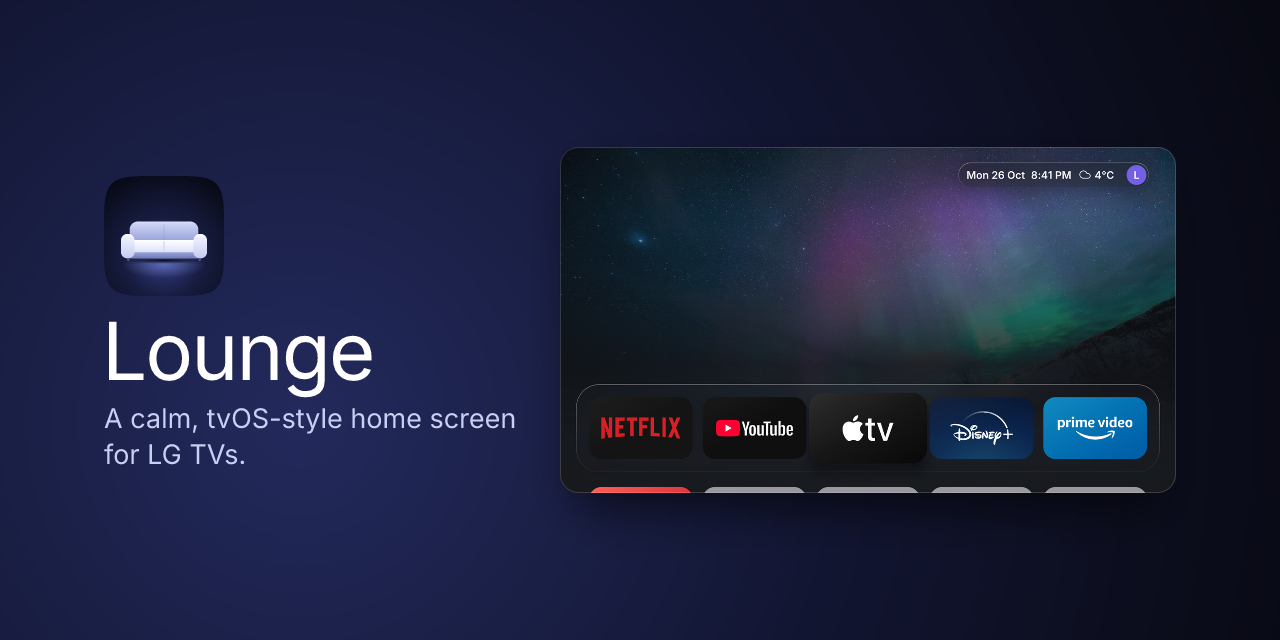
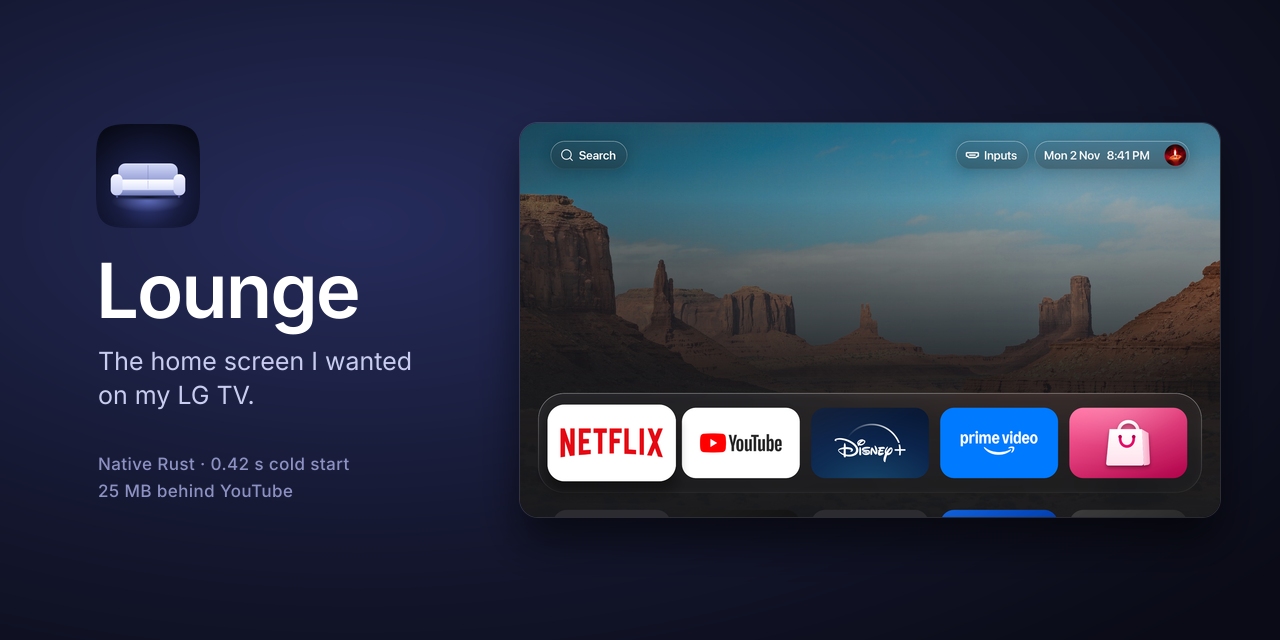
README in my own words: why I made it, what's in it, how it works; new social card from a real screen

diff --git a/readme.md b/readme.md
@@ -4,71 +4,35 @@
 
 # Lounge
 
-**A calm, tvOS-style home screen for LG TVs. Native, instant, and out of the way.**
+**The home screen I wanted on my LG TV.**
 
 [![CI](https://img.shields.io/github/actions/workflow/status/YashwanthKamireddi/lounge/ci.yml?branch=main&label=CI&logo=githubactions&logoColor=white)](https://github.com/YashwanthKamireddi/lounge/actions/workflows/ci.yml)
 [![Release](https://img.shields.io/github/v/release/YashwanthKamireddi/lounge?label=release&color=3b4590)](https://github.com/YashwanthKamireddi/lounge/releases/latest)
 [![LG webOS 5, 6, 22 to 26](https://img.shields.io/badge/LG%20webOS-5%20%C2%B7%206%20%C2%B7%2022%E2%80%9326-a50034?logo=lg&logoColor=white)](#compatibility)
 [![License: MIT](https://img.shields.io/badge/license-MIT-3b4590)](license)
 
-[![Rust](https://img.shields.io/badge/Rust-native-000000?logo=rust&logoColor=white)](development.md)
-[![OpenGL ES 2.0](https://img.shields.io/badge/OpenGL%20ES-2.0-5586a4?logo=opengl&logoColor=white)](development.md)
-[![SDL2](https://img.shields.io/badge/SDL-2-1d4979)](https://github.com/webosbrew/SDL-webOS)
-[![Homebrew Channel](https://img.shields.io/badge/Homebrew%20Channel-repo-6f42c1)](#install)
-
 <img src="docs/readme/demo.webp" alt="Lounge in motion: the glass dock, the app grid and the Inputs panel on an LG TV" width="100%">
 
-[Install](#install) · [Features](#features) · [Compatibility](#compatibility) · [Build](#build)
+[Install](#install) · [What's in it](#whats-in-it) · [How it works](#how-it-works) · [Build](#build)
 
 </div>
 
-## Why Lounge
+## Why I made it
 
-Lounge replaces LG's home screen with one that feels like an Apple TV: a glass dock of your apps,
-nothing else competing for attention, and no ads. Measured on an LG 65UQ801C0SB:
+My LG TV's home screen was slow, full of ads and rows I never used, and it stayed in memory
+behind every app I watched. I wanted something closer to an Apple TV: my apps, a nice wallpaper,
+and nothing else. So I wrote one for my own TV, and it's what I use every day.
 
-|                      |                                                           |
-| -------------------- | --------------------------------------------------------- |
-| **Behind YouTube**   | holds about 25 MB, against about 113 MB for LG's own Home |
-| **Cold start**       | first frame in 0.42 s                                     |
-| **Home from an app** | back in about 0.1 s                                       |
-| **Sitting on Home**  | wakes about once a minute (for the clock); nothing polls  |
+It's one native program, not a web page. On my TV (LG 65UQ801C0SB):
 
-### How it's built
+| What                       | Lounge                                     |
+| -------------------------- | ------------------------------------------ |
+| First frame from cold      | 0.42 s                                     |
+| Back to Home from an app   | about 0.1 s                                |
+| Memory while YouTube plays | about 25 MB (LG's Home holds about 113 MB) |
+| Sitting on Home            | wakes about once a minute, for the clock   |
 
-Most home screens for webOS, LG's included, are built on a web engine (Chromium, through LG's
-WebAppMgr) or a UI toolkit (Qt/QML) that stays loaded the whole time. Lounge is a single native
-binary of about 4.5 MB, written in Rust, that renders straight to the TV's graphics plane with
-OpenGL ES 2.0 through SDL2. Everything below follows from that.
-
-- **Rendering.** Each frame is a draw list compiled into batched GL calls. Liquid Glass is one
-  fragment shader sampling a pre-blurred backdrop, with lens refraction at the rim, so a glass
-  panel costs one pass, and a cross-fade between two backdrops is still one pass. Opaque tiles are
-  written to the stencil buffer first, so nothing hidden behind them is shaded. With EGL partial
-  update, a frame repaints only the region that changed.
-- **Text and icons.** Glyphs and interface icons are vector outlines tessellated into triangle
-  meshes (lyon) and drawn on the GPU, sharp at any size, with each laid-out line of text cached.
-- **Budgets.** CI renders each screen of the smoke tests headless, and any that goes over 3.25
-  screens of fill per frame, 64 MB of artwork or 8 MB of text geometry fails the build.
-- **Start-up.** Linked shader programs are cached on the TV (GL_OES_get_program_binary), pictures
-  ship ASTC-compressed for the GPU, and decoding and uploads run on worker threads. First frame
-  from a cold start: 0.42 s. Nothing on the drawing thread reads a file or waits on the network.
-- **Idle and background.** The loop blocks in SDL until something happens. webOS pushes app,
-  input and window changes over its Luna bus, and workers wake the loop the moment they finish.
-  Idle on Home, it wakes about once a minute for the clock. Behind an app it frees its textures
-  and returns memory to the system (about 25 MB resident behind YouTube, against about 113 MB for
-  LG's Home).
-- **Taking over Home.** Lounge's binary is bind-mounted over LG Home's executable (webOS 5, 6 and 22
-  to 24), or a Home manifest pointing at Lounge is mounted (webOS 25 and 26). Either way it registers
-  with webOS's app manager, so a Home press brings back the running instance instead of starting
-  it again. Nothing is written to LG's firmware. Three failed starts within a minute hand Home back
-  to LG, and a plain-shell restore works even if Lounge itself can't run.
-- **One build for every TV.** A portable ARMv8 (Cortex-A53, NEON) binary with link-time
-  optimisation, and 205 Rust unit tests plus native smoke tests of every screen.
-
-[development.md](development.md) covers each part in depth.
-
-## Features
+## What's in it
 
 <table>
   <tr>
@@ -85,15 +49,12 @@ OpenGL ES 2.0 through SDL2. Everything below follows from that.
   </tr>
 </table>
 
-- **Liquid glass everywhere:** dock, menus, alerts and the app switcher share one material, in
-  Light, Dark or Automatic.
-- **Inputs one press away:** Up from the dock reaches Search and Inputs. Inputs lists Live TV and
-  every HDMI port, plugged-in ones first, under LG's own names.
-- **Hold OK on any app** to move, hide or uninstall it.
+- **A dock of five apps,** and every other app one press down.
+- **Inputs one press up:** Live TV and every HDMI port, plugged-in ones first, under LG's names.
+- **Hold OK on an app** to move, hide or uninstall it.
 - **An app switcher** for what's open: OK opens, Up closes, Back returns.
 - **Search** from a letter grid, with results as you type.
-- **For everyone in the room:** a focus outline, larger app names and reduced motion, one switch
-  each.
+- **Light, Dark or Automatic,** plus a focus outline, larger names and reduced motion.
 
 ## Install
 
@@ -108,35 +69,62 @@ Prefer a file? Install `io.github.yashwanthkamireddi.lounge_1.2.0_arm.ipk` from
 [Releases](https://github.com/YashwanthKamireddi/lounge/releases/latest) with
 [webOS Dev Manager](https://github.com/webosbrew/dev-manager-desktop).
 
-**Back to LG's Home, any time, with the remote:** turn off Settings › General › Lounge as Home.
+**Going back to LG's Home only needs the remote:** turn off Settings › General › Lounge as Home.
 Uninstalling Lounge in Homebrew Channel and restarting the TV does it too. Nothing is written to
-LG's firmware, and if Lounge ever fails to start three times in a minute, it hands Home back to LG
-by itself. (Over SSH: `sh /var/lib/lounge/home.sh disable`.)
+LG's firmware, and if Lounge fails to start three times in a minute, it gives Home back to LG by
+itself. (Over SSH: `sh /var/lib/lounge/home.sh disable`.)
+
+## How it works
+
+Most webOS home screens, LG's included, sit on a web engine (Chromium, through LG's WebAppMgr)
+or a UI toolkit (Qt/QML) that stays loaded the whole time. Lounge is one Rust binary of about
+4.5 MB that draws straight to the TV's graphics plane with OpenGL ES 2.0 through SDL2. That's
+where the speed comes from.
+
+- **Drawing.** Each frame is a draw list turned into batched GL calls. The glass is one shader
+  sampling a pre-blurred backdrop, so a glass panel costs one pass. Opaque tiles go into the
+  stencil buffer first, so nothing hidden behind them is shaded, and with EGL partial update only
+  the part of the screen that changed is redrawn.
+- **Text and icons** are vector outlines turned into triangles (lyon) and drawn on the GPU, sharp
+  at any size.
+- **Starting fast.** Compiled shaders are cached on the TV, pictures ship ASTC-compressed for the
+  GPU, and decoding runs on worker threads. The drawing thread never reads a file or waits on the
+  network.
+- **Doing nothing when nothing happens.** The loop sleeps until there's input or news from webOS
+  (app, input and window changes arrive over its Luna bus). Behind an app, Lounge frees its
+  textures and gives the memory back.
+- **Becoming Home.** Lounge's binary is bind-mounted over LG Home's (webOS 5, 6 and 22 to 24), or
+  a Home manifest pointing at Lounge is mounted (webOS 25 and 26). It registers with webOS's app
+  manager, so pressing Home brings back the running Lounge instead of starting a new one.
+- **Kept honest by CI.** Every screen is rendered headless in CI, and a change that paints more
+  than 3.25 screens per frame, or holds more than 64 MB of artwork or 8 MB of text, fails the
+  build.
+
+[development.md](development.md) goes deeper into each part.
 
 ## Compatibility
 
-Lounge runs on every LG TV from 2020 on: webOS 5 and 6, then webOS 22 to 26 (LG names these by
-year; internally they are versions 7 to 11). It picks the right way to become Home
-for each by itself. It is verified on webOS 22 (version 7.6); the others are covered by tests and
-are waiting for reports. If a TV can't have Lounge as its Home, Settings says why: the
-Homebrew Channel needs root, another launcher is already Home, or the webOS version isn't
-supported yet. Lounge then still opens as an app.
+Lounge runs on LG TVs from 2020 on: webOS 5 and 6, then webOS 22 to 26 (LG names these by year;
+inside they are versions 7 to 11). It picks the right way to become Home on each by itself.
+
+I use it every day on webOS 22 (version 7.6). The other versions are covered by tests, not yet
+by real TVs, so reports are very welcome. If a TV can't have Lounge as its Home, Settings says
+why, and Lounge still opens as an app.
 
 ## Known limits
 
 - After a cold start, LG's Home shows for a few seconds before Lounge takes over: webOS starts it
   before any homebrew can run.
-- Verified on webOS 22 only so far. Other versions are covered by tests, not yet by real TVs.
 - English only for now.
 
-Found a problem or tried it on another TV? [Open an issue](https://github.com/YashwanthKamireddi/lounge/issues).
+Found a bug or tried it on another TV? [Open an issue](https://github.com/YashwanthKamireddi/lounge/issues).
 
 ## Privacy
 
-No telemetry and no accounts. Settings stay on the TV; the only network requests are for the
+No telemetry and no accounts. Settings stay on the TV, and the only network requests are for the
 weather (Open-Meteo, OpenStreetMap). Lounge writes no log files unless you switch diagnostics on
-by creating `/var/lib/lounge/debug`. Rooting is your call, and Lounge comes without warranty
-(see the [license](license)).
+by creating `/var/lib/lounge/debug`. Rooting is your call, and Lounge comes without warranty (see
+the [license](license)).
 
 ## Build
 
@@ -153,5 +141,5 @@ pnpm dev           # desktop preview with sample apps
 
 ## Credits
 
-A fork of [lg-luma](https://github.com/ecklf/lg-luma) by ecklf and contributors (MIT, notice kept
-in the [license](license)). Not affiliated with LG, Apple or any app brand shown.
+Started as a fork of [lg-luma](https://github.com/ecklf/lg-luma) by ecklf and contributors (MIT,
+notice kept in the [license](license)). Not affiliated with LG, Apple or any app brand shown.
